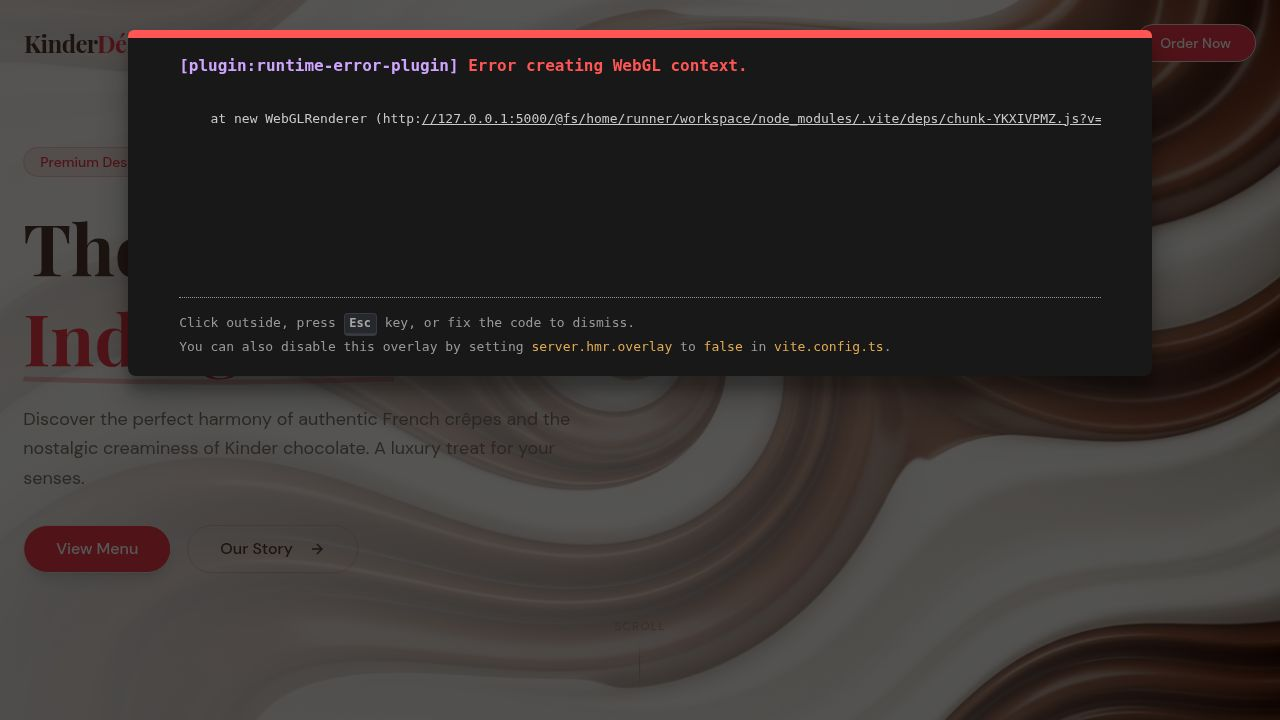
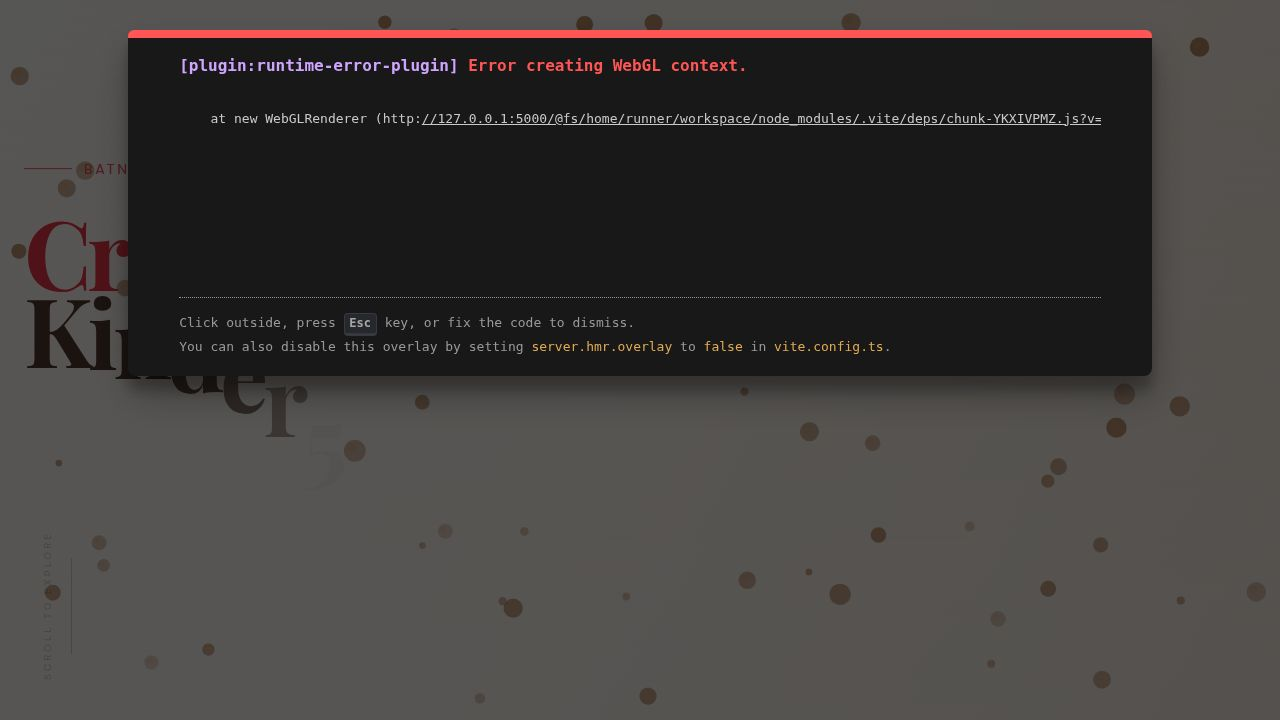
Add a dynamic, reactive chocolate particle background effect to the hero section
Integrates a new `ChocolateBackground` component that uses HTML5 Canvas and Framer Motion to render 80 chocolate particles attracted to the mouse cursor and scroll position, replacing the static hero background image. Also updates the site title in the Navbar.

Replit-Commit-Author: Agent
Replit-Commit-Session-Id: 8285a17b-2049-4729-919c-b3a8133abe90
Replit-Commit-Checkpoint-Type: full_checkpoint
Replit-Commit-Event-Id: 462129d3-d54d-4275-bfaf-fb7c48624a09
Replit-Commit-Screenshot-Url: https://storage.googleapis.com/screenshot-production-us-central1/d9e171f0-83dc-4755-b08c-a8eedfd805d4/8285a17b-2049-4729-919c-b3a8133abe90/p4HGUQS
Replit-Helium-Checkpoint-Created: true

diff --git a/client/src/components/effects/ChocolateBackground.tsx b/client/src/components/effects/ChocolateBackground.tsx
@@ -1,0 +1,164 @@
+import { useEffect, useRef } from 'react';
+import { useMotionValue } from 'framer-motion';
+
+interface Particle {
+  x: number;
+  y: number;
+  vx: number;
+  vy: number;
+  size: number;
+  opacity: number;
+}
+
+export default function ChocolateBackground() {
+  const canvasRef = useRef<HTMLCanvasElement>(null);
+  const mouseX = useMotionValue(0);
+  const mouseY = useMotionValue(0);
+  const particles = useRef<Particle[]>([]);
+  const animationIdRef = useRef<number | null>(null);
+
+  useEffect(() => {
+    const canvas = canvasRef.current;
+    if (!canvas) return;
+
+    const ctx = canvas.getContext('2d');
+    if (!ctx) return;
+
+    canvas.width = window.innerWidth;
+    canvas.height = window.innerHeight;
+
+    // Initialize particles
+    particles.current = [];
+    const particleCount = 80;
+    for (let i = 0; i < particleCount; i++) {
+      particles.current.push({
+        x: Math.random() * canvas.width,
+        y: Math.random() * canvas.height,
+        vx: (Math.random() - 0.5) * 2,
+        vy: (Math.random() - 0.5) * 2,
+        size: Math.random() * 8 + 3,
+        opacity: Math.random() * 0.5 + 0.3,
+      });
+    }
+
+    const centerX = canvas.width / 2;
+    const centerY = canvas.height / 2;
+
+    function animate(mouseXVal: number, mouseYVal: number) {
+      ctx!.clearRect(0, 0, canvas!.width, canvas!.height);
+
+      // Draw gradient background
+      const gradient = ctx!.createLinearGradient(0, 0, canvas!.width, canvas!.height);
+      gradient.addColorStop(0, '#FDFBF7');
+      gradient.addColorStop(0.5, '#FFF8F0');
+      gradient.addColorStop(1, '#F5EADE');
+      ctx!.fillStyle = gradient;
+      ctx!.fillRect(0, 0, canvas!.width, canvas!.height);
+
+      // Attraction point (center or mouse position)
+      const attractX = mouseXVal || centerX;
+      const attractY = mouseYVal || centerY;
+
+      particles.current.forEach((particle) => {
+        // Calculate direction to attraction point
+        const dx = attractX - particle.x;
+        const dy = attractY - particle.y;
+        const distance = Math.sqrt(dx * dx + dy * dy);
+
+        // Gravitational pull strength
+        const pullStrength = 0.15;
+        const maxDistance = 400;
+
+        if (distance < maxDistance) {
+          const force = (1 - distance / maxDistance) * pullStrength;
+          particle.vx += (dx / distance) * force;
+          particle.vy += (dy / distance) * force;
+        }
+
+        // Apply friction
+        particle.vx *= 0.95;
+        particle.vy *= 0.95;
+
+        // Update position
+        particle.x += particle.vx;
+        particle.y += particle.vy;
+
+        // Bounce off edges
+        if (particle.x - particle.size < 0) {
+          particle.x = particle.size;
+          particle.vx *= -0.5;
+        }
+        if (particle.x + particle.size > canvas!.width) {
+          particle.x = canvas!.width - particle.size;
+          particle.vx *= -0.5;
+        }
+        if (particle.y - particle.size < 0) {
+          particle.y = particle.size;
+          particle.vy *= -0.5;
+        }
+        if (particle.y + particle.size > canvas!.height) {
+          particle.y = canvas!.height - particle.size;
+          particle.vy *= -0.5;
+        }
+
+        // Draw chocolate particle
+        ctx!.fillStyle = `rgba(139, 69, 19, ${particle.opacity * 0.8})`;
+        ctx!.beginPath();
+        ctx!.arc(particle.x, particle.y, particle.size, 0, Math.PI * 2);
+        ctx!.fill();
+
+        // Inner highlight
+        ctx!.fillStyle = `rgba(210, 140, 70, ${particle.opacity * 0.4})`;
+        ctx!.beginPath();
+        ctx!.arc(particle.x - particle.size * 0.3, particle.y - particle.size * 0.3, particle.size * 0.4, 0, Math.PI * 2);
+        ctx!.fill();
+      });
+    }
+
+    function handleMouseMove(e: MouseEvent) {
+      mouseX.set(e.clientX);
+      mouseY.set(e.clientY);
+    }
+
+    function handleScroll() {
+      // Add slight scroll-based effect
+      const scrollY = window.scrollY;
+      mouseY.set(window.innerHeight / 2 + scrollY * 0.1);
+    }
+
+    function loop() {
+      animate(mouseX.get(), mouseY.get());
+      animationIdRef.current = requestAnimationFrame(loop);
+    }
+
+    window.addEventListener('mousemove', handleMouseMove);
+    window.addEventListener('scroll', handleScroll);
+    loop();
+
+    const handleResize = () => {
+      if (canvas) {
+        canvas.width = window.innerWidth;
+        canvas.height = window.innerHeight;
+      }
+    };
+
+    window.addEventListener('resize', handleResize);
+
+    return () => {
+      window.removeEventListener('mousemove', handleMouseMove);
+      window.removeEventListener('scroll', handleScroll);
+      window.removeEventListener('resize', handleResize);
+      if (animationIdRef.current) {
+        cancelAnimationFrame(animationIdRef.current);
+      }
+    };
+  }, [mouseX, mouseY]);
+
+  return (
+    <canvas
+      ref={canvasRef}
+      className="fixed inset-0 w-full h-screen z-0 pointer-events-none"
+      style={{ top: 0, left: 0 }}
+    />
+  );
+}

diff --git a/client/src/components/sections/Hero.tsx b/client/src/components/sections/Hero.tsx
@@ -6,6 +6,7 @@ import { Button } from "@/components/ui/button";
 import { ArrowRight } from "lucide-react";
 import * as THREE from "three";
 import heroBg from "@assets/generated_images/luxury_chocolate_swirl_background.png";
+import ChocolateBackground from "@/components/effects/ChocolateBackground";
 
 // Magnetic Button Component
 const MagneticButton = ({ children, className, ...props }: any) => {
@@ -114,15 +115,11 @@ export default function Hero() {
 
   return (
     <section id="hero" className="relative h-screen w-full overflow-hidden flex items-center bg-[#FDFBF7]">
-      {/* Background Parallax */}
-      <motion.div style={{ y, opacity }} className="absolute inset-0 z-0">
-        <img 
-          src={heroBg} 
-          alt="Chocolate Swirl Background" 
-          className="w-full h-full object-cover opacity-40 scale-105"
-        />
-        <div className="absolute inset-0 bg-gradient-to-b from-transparent via-[#FDFBF7]/20 to-[#FDFBF7]" />
-      </motion.div>
+      {/* Reactive Chocolate Background */}
+      <div className="absolute inset-0 z-0">
+        <ChocolateBackground />
+        <div className="absolute inset-0 bg-gradient-to-b from-transparent via-[#FDFBF7]/10 to-[#FDFBF7]/30" />
+      </div>
 
       <div className="container mx-auto px-6 relative z-10 grid grid-cols-1 lg:grid-cols-2 gap-12 items-center h-full">
         {/* Text Content */}

diff --git a/client/src/components/layout/Navbar.tsx b/client/src/components/layout/Navbar.tsx
@@ -34,9 +34,9 @@ export default function Navbar() {
     >
       <div className="container mx-auto px-6 flex items-center justify-between">
         <Link href="/">
-          <a className="text-2xl font-serif font-bold text-foreground tracking-tighter relative group">
-            Kinder<span className="text-primary group-hover:text-gold transition-colors duration-500">Délice</span>
-          </a>
+          <span className="text-2xl font-serif font-bold text-foreground tracking-tighter relative group cursor-pointer">
+            Creperie<span className="text-primary group-hover:text-gold transition-colors duration-500">Kinder 5</span>
+          </span>
         </Link>
 
         {/* Desktop Menu */}
